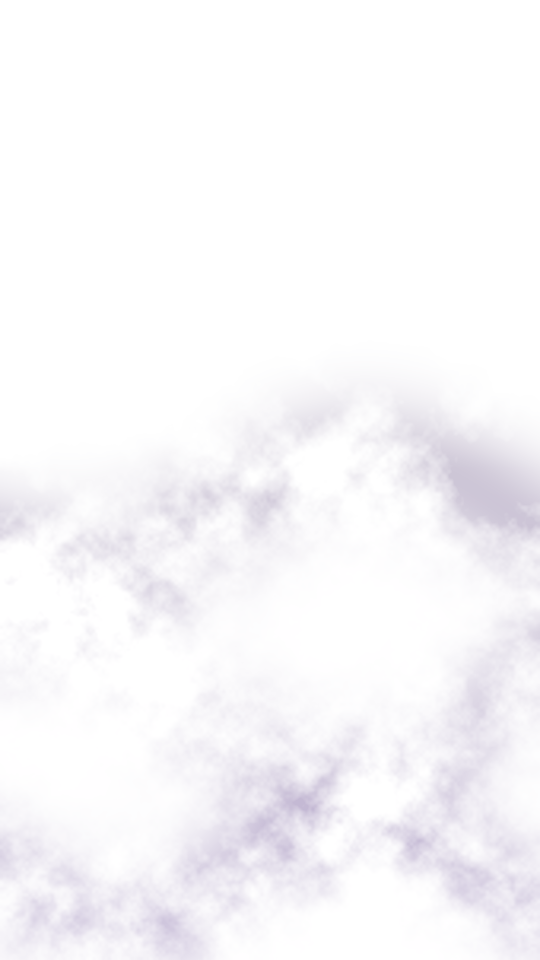
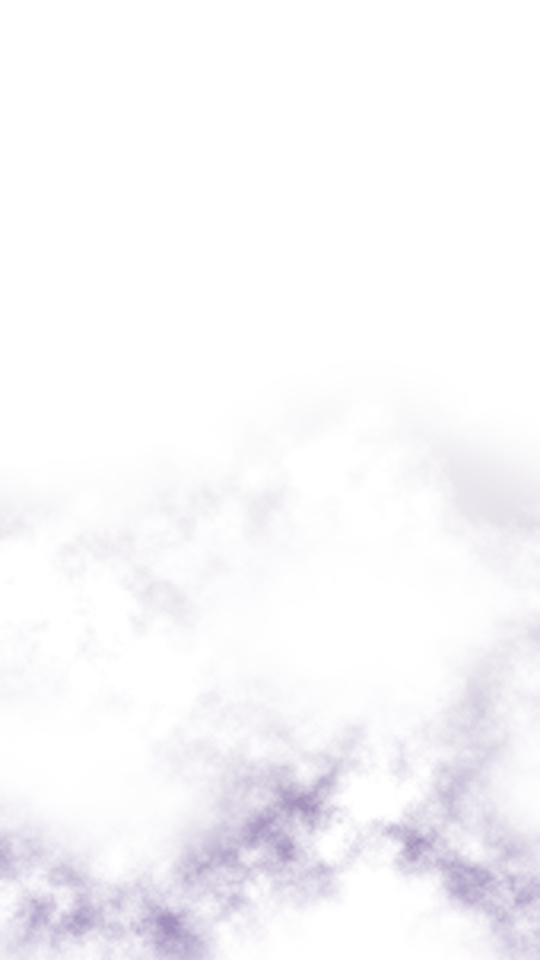
Integra o A à névoa e prioriza aluguel no Story

diff --git a/cena/web/story-layout.js b/cena/web/story-layout.js
@@ -38,7 +38,7 @@ export function renderStory(canvas,{image=null,title='',originalTitle='',year=''
   const serif='"Playfair Display", Georgia, serif';
   const imageHeight=1080;
   const cached=backgrounds.get(canvas);
-  if(cached&&cached.image===image&&cached.mist===mist&&typeof ctx.putImageData==='function'){
+  if(cached&&cached.image===image&&typeof ctx.putImageData==='function'){
     ctx.putImageData(cached.pixels,0,0);
   }else{
     const base=ctx.createLinearGradient(0,0,1080,1920);
@@ -59,7 +59,6 @@ export function renderStory(canvas,{image=null,title='',originalTitle='',year=''
     shade.addColorStop(.72,'#18131fbd');
     shade.addColorStop(1,'#18131f');
     ctx.fillStyle=shade;ctx.fillRect(0,0,1080,imageHeight);
-    if(mist)ctx.drawImage(mist,0,0,1080,1920);
     if(typeof ctx.createRadialGradient==='function'){
       for(const [x,y,r,color] of [[100,1320,490,'#8b64ae55'],[940,1580,500,'#61338d68'],[430,1850,420,'#7d509d50']]){
         const mist=ctx.createRadialGradient(x,y,0,x,y,r);
@@ -73,12 +72,13 @@ export function renderStory(canvas,{image=null,title='',originalTitle='',year=''
         ctx.fillRect(x,y,size,size);
       }
     }
-    if(typeof ctx.getImageData==='function')backgrounds.set(canvas,{image,mist,pixels:ctx.getImageData(0,0,1080,1920)});
+    if(typeof ctx.getImageData==='function')backgrounds.set(canvas,{image,pixels:ctx.getImageData(0,0,1080,1920)});
   }
   if(brandMark){
-    ctx.save();ctx.globalAlpha=.15;
-    ctx.drawImage(brandMark,535,1080,640,640);ctx.restore();
+    ctx.save();ctx.globalAlpha=.29;
+    ctx.drawImage(brandMark,520,1090,655,655);ctx.restore();
   }
+  if(mist)ctx.drawImage(mist,0,0,1080,1920);
   ctx.textAlign='left';ctx.textBaseline='top';
   if(brandMark&&brandWordmark){
     ctx.drawImage(brandMark,left-11,top-3,100,100);
@@ -160,17 +160,10 @@ export function renderStory(canvas,{image=null,title='',originalTitle='',year=''
   if(sources.length){
     const ruleY=Math.max(opinionBottom+28,image?1290:1150);
     ctx.textAlign='left';
-    const panel=ctx.createLinearGradient(left,ruleY,right,ruleY+160);
-    panel.addColorStop(0,'#3b3647d9');panel.addColorStop(1,'#30243cb8');
-    ctx.fillStyle=panel;ctx.beginPath();ctx.roundRect(left-18,ruleY-5,width+36,58+sources.length*62+(sources.length===1?30:0),22);ctx.fill();
-    ctx.strokeStyle='#d9c1e77a';ctx.lineWidth=2;ctx.stroke();
-    ctx.fillStyle='#ddc9ed';ctx.font=`700 27px ${sans}`;
-    ctx.beginPath();
-    ctx.moveTo(left,ruleY+20);ctx.lineTo(left+19,ruleY+31);ctx.lineTo(left,ruleY+42);ctx.closePath();ctx.fill();
-    ctx.fillText('ONDE ASSISTIR NO BRASIL',left+32,ruleY+16);
-    let y=ruleY+53;
     const compact=sources.length>1;
-    for(const row of sources){
+    const contentX=left+61;
+    const planNote='Também no plano com anúncios';
+    const rows=sources.map(row=>{
       const separator=row.indexOf(' · ');
       const label=separator<0?'':row.slice(0,separator);
       const providers=(separator<0?row:row.slice(separator+3)).split(', ');
@@ -178,9 +171,30 @@ export function renderStory(canvas,{image=null,title='',originalTitle='',year=''
       const hasBoth=netflixAds>=0&&providers.some(name=>/^Netflix$/i.test(name));
       if(hasBoth)providers.splice(netflixAds,1);
       else if(netflixAds>=0)providers[netflixAds]='Netflix com anúncios';
+      return {label,providers,hasBoth};
+    });
+    const titleFont=`700 ${compact?29:39}px ${sans}`;
+    const detailFont=`500 ${compact?18:23}px ${sans}`;
+    const noteFont=`italic 500 ${compact?18:21}px ${sans}`;
+    const textWidth=Math.max(...rows.map(({label,providers,hasBoth})=>{
+      ctx.font=titleFont;const names=ctx.measureText(providers.join(', ')).width;
+      ctx.font=detailFont;const detail=ctx.measureText(label.toLocaleUpperCase('pt-BR')).width;
+      ctx.font=noteFont;const note=hasBoth?ctx.measureText(planNote).width:0;
+      return Math.max(names,compact&&note?detail+20+note:Math.max(detail,note));
+    }));
+    const panelRight=Math.min(right+18,Math.max(left+490,contentX+textWidth+22));
+    const panel=ctx.createLinearGradient(left,ruleY,panelRight,ruleY+160);
+    panel.addColorStop(0,'#3b3647ed');panel.addColorStop(1,'#30243cdb');
+    ctx.fillStyle=panel;ctx.beginPath();ctx.roundRect(left-18,ruleY-5,panelRight-left+18,58+sources.length*62+(sources.length===1?30:0),22);ctx.fill();
+    ctx.strokeStyle='#d9c1e77a';ctx.lineWidth=2;ctx.stroke();
+    ctx.fillStyle='#ddc9ed';ctx.font=`700 27px ${sans}`;
+    ctx.beginPath();
+    ctx.moveTo(left,ruleY+20);ctx.lineTo(left+19,ruleY+31);ctx.lineTo(left,ruleY+42);ctx.closePath();ctx.fill();
+    ctx.fillText('ONDE ASSISTIR NO BRASIL',left+32,ruleY+16);
+    let y=ruleY+53;
+    for(const {label,providers,hasBoth} of rows){
       const cinema=label.startsWith('Estreia');
       const icon=cinema?'▤':label==='Aluguel'?'◷':label==='Compra'?'↓':'▶';
-      const contentX=left+61;
       ctx.fillStyle='#392748';ctx.beginPath();ctx.roundRect(left,y+2,44,44,10);ctx.fill();
       if(providerIcon&&providers.some(name=>name.toLowerCase()===providerIcon.name.toLowerCase())){
         ctx.save();ctx.beginPath();ctx.roundRect(left,y+2,44,44,10);ctx.clip();
@@ -189,19 +203,18 @@ export function renderStory(canvas,{image=null,title='',originalTitle='',year=''
         ctx.fillStyle='#edd6ff';ctx.font=`700 24px ${sans}`;
         ctx.textAlign='center';ctx.fillText(icon,left+22,y+9);ctx.textAlign='left';
       }
-      ctx.font=`700 ${compact?29:39}px ${sans}`;ctx.fillStyle='#fff';
-      const names=wrapStoryText(ctx,providers.join(', '),right-contentX,compact?1:2);
+      ctx.font=titleFont;ctx.fillStyle='#fff';
+      const names=wrapStoryText(ctx,providers.join(', '),panelRight-contentX-16,compact?1:2);
       const lineHeight=compact?32:43;
       names.forEach((line,index)=>ctx.fillText(line,contentX,y+index*lineHeight));
-      ctx.font=`500 ${compact?18:23}px ${sans}`;ctx.fillStyle='#d3bbdf';
+      ctx.font=detailFont;ctx.fillStyle='#d3bbdf';
       const detail=label.toLocaleUpperCase('pt-BR');
       const detailY=y+names.length*lineHeight;
       if(detail)ctx.fillText(detail,contentX,detailY);
       if(hasBoth){
-        const note='Também no plano com anúncios';
         const noteX=compact?contentX+ctx.measureText(detail).width+20:contentX;
-        ctx.font=`italic 500 ${compact?18:21}px ${sans}`;
-        ctx.fillText(note,noteX,detailY+(compact?0:25));
+        ctx.font=noteFont;
+        ctx.fillText(planNote,noteX,detailY+(compact?0:25));
       }
       y+=Math.max(49,names.length*lineHeight+(detail?27:7)+(hasBoth&&!compact?25:0));
 
@@ -209,6 +222,6 @@ export function renderStory(canvas,{image=null,title='',originalTitle='',year=''
     ctx.font=`500 20px ${sans}`;ctx.fillStyle='#c9b6d8';
     ctx.textAlign='center';ctx.fillText('TMDB / JustWatch',540,Math.max(y+20,1608));
   }
-  canvas.dataset.storyTitle=title;canvas.dataset.storyRating=review.score===null?'':String(review.score);canvas.dataset.storyOpinion=review.opinion;canvas.dataset.layoutVersion='15';
+  canvas.dataset.storyTitle=title;canvas.dataset.storyRating=review.score===null?'':String(review.score);canvas.dataset.storyOpinion=review.opinion;canvas.dataset.layoutVersion='16';
   return {titleLines,opinionLines:opinion.lines,opinionBottom,score:review.score};
 }

diff --git a/cena/android/app/src/androidTest/java/app/cena/AssetsUpgradeTest.kt b/cena/android/app/src/androidTest/java/app/cena/AssetsUpgradeTest.kt
@@ -31,15 +31,15 @@ class AssetsUpgradeTest {
         val context = InstrumentationRegistry.getInstrumentation().targetContext
         assertEquals("app.cena.mobile", context.packageName)
         assertEquals("update", File(context.filesDir, "legacy-update-marker.txt").readText().trim())
-        assertEquals("0.26.6", context.packageManager.getPackageInfo(context.packageName, 0).versionName)
+        assertEquals("0.26.7", context.packageManager.getPackageInfo(context.packageName, 0).versionName)
         ActivityScenario.launch(MainActivity::class.java).use { scenario ->
             val deadline = android.os.SystemClock.uptimeMillis()+15000
             while (!evaluate(scenario, "typeof window.CenaNativeResult").contains("function")) {
                 assertTrue(android.os.SystemClock.uptimeMillis()<deadline)
                 Thread.sleep(200)
             }
-            assertTrue(evaluate(scenario, "location.pathname").contains("/cena-0.26.6/"))
-            assertTrue(evaluate(scenario, "document.querySelector('#app-version').textContent").contains("0.26.6"))
+            assertTrue(evaluate(scenario, "location.pathname").contains("/cena-0.26.7/"))
+            assertTrue(evaluate(scenario, "document.querySelector('#app-version').textContent").contains("0.26.7"))
             assertTrue(evaluate(scenario, "typeof window.CenaStremioResult").contains("function"))
             evaluate(scenario, "document.querySelector('#profile-shortcut').click(); true")
             assertTrue(evaluate(scenario, "document.querySelector('#stremio-connect') !== null").contains("true"))

diff --git a/cena/web/index.html b/cena/web/index.html
@@ -10,7 +10,7 @@
 </head>
 <body>
   <div class="app">
-    <header><div class="brand-group"><a class="brand" href="#home" aria-label="CENA IA, início"><span class="brand-triangle" aria-hidden="true"><img src="brand-mark.png" alt=""></span><img class="brand-wordmark" src="brand-wordmark.svg" alt=""></a><span class="version-tag" id="app-version">v0.26.6</span></div><div class="header-tools"><button class="icon-button" id="profile-shortcut" aria-label="Perfil e configurações"><svg viewBox="0 0 24 24" aria-hidden="true"><circle cx="12" cy="8" r="3.5"/><path d="M4.5 21v-2a7.5 7.5 0 0 1 15 0v2"/></svg><span>Perfil</span></button><button class="icon-button" id="search-shortcut" aria-label="Buscar títulos">⌕</button></div></header>
+    <header><div class="brand-group"><a class="brand" href="#home" aria-label="CENA IA, início"><span class="brand-triangle" aria-hidden="true"><img src="brand-mark.png" alt=""></span><img class="brand-wordmark" src="brand-wordmark.svg" alt=""></a><span class="version-tag" id="app-version">v0.26.7</span></div><div class="header-tools"><button class="icon-button" id="profile-shortcut" aria-label="Perfil e configurações"><svg viewBox="0 0 24 24" aria-hidden="true"><circle cx="12" cy="8" r="3.5"/><path d="M4.5 21v-2a7.5 7.5 0 0 1 15 0v2"/></svg><span>Perfil</span></button><button class="icon-button" id="search-shortcut" aria-label="Buscar títulos">⌕</button></div></header>
     <main id="main"></main>
     <nav aria-label="Navegação principal">
       <button data-tab="home" class="active"><span>⌂</span>Início</button>

diff --git a/cena/web/story-editor.js b/cena/web/story-editor.js
@@ -1,6 +1,6 @@
 import {renderStory,parseStoryRating} from './story-layout.js';
 import {storyMetadata} from './story-metadata.js';
-import {availabilityRows,cinemaLabel} from './availability.js';
+import {storyAvailability} from './availability.js';
 import {loadStoryPoster,loadStoryBackdrop,loadCanvasImage} from './story-artwork.js';
 export function createStoryEditor({$,escape,storage,getItems,native,artworkResolver,persistArtwork,toast,wireStreaming}){
 return async function story(item) {
@@ -27,9 +27,7 @@ return async function story(item) {
   caption.oninput=rating.oninput=()=>{draw();remember();};title.oninput=()=>{editedTitle=true;draw();remember();};
   const providerNode=$('#story-availability');
   providerNode.onCenaAvailability=(value,configured,cinemaDate)=>{
-    const rows=availabilityRows(value);
-    const cinema=cinemaLabel(cinemaDate);
-    availability=[...rows.slice(0,cinema?2:3).map(row=>row.label+' · '+row.names.slice(0,3).join(', ')),...(cinema?[cinema]:[])];
+    availability=storyAvailability(value,cinemaDate);
     providerNode.textContent=availability.length?'Disponibilidade no Brasil · TMDB e JustWatch':!configured?'Conecte o TMDB em Perfil para consultar serviços.':value?'Disponibilidade não confirmada nesta consulta.':'Consultando serviços no Brasil…';
     const key=/^\/[A-Za-z0-9_.-]{1,120}\.png$/.test(value?.logo||'')&&value?.name?value.logo:'';
     if(key!==iconKey){

diff --git a/cena/web/availability.js b/cena/web/availability.js
@@ -16,3 +16,13 @@ export function cinemaLabel(date) {
   const match = /^(\d{4})-(\d{2})-(\d{2})$/.exec(date || '');
   return match ? `Estreia prevista no cinema · ${match[3]}/${match[2]}/${match[1]}` : '';
 }
+
+export function storyAvailability(value, cinemaDate) {
+  const rows=availabilityRows(value);
+  const cinema=cinemaLabel(cinemaDate);
+  const limit=cinema?2:3;
+  const selected=rows.slice(0,limit);
+  const rental=rows.find(row=>row.label==='Aluguel');
+  if(rental&&!selected.includes(rental))selected[limit-1]=rental;
+  return [...selected.map(({label,names})=>label+' · '+names.slice(0,3).join(', ')),...(cinema?[cinema]:[])];
+}
